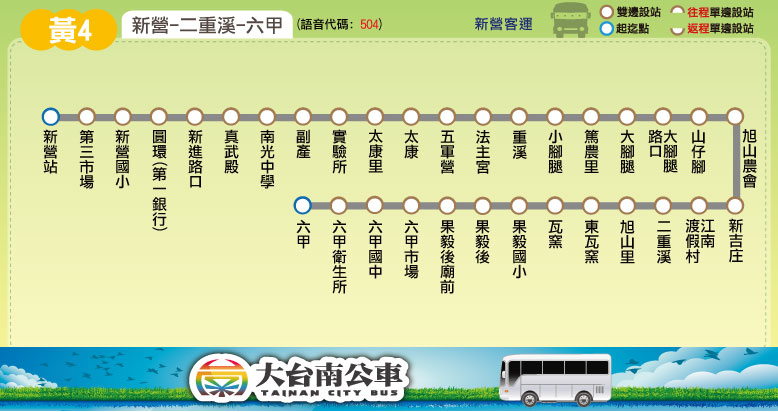
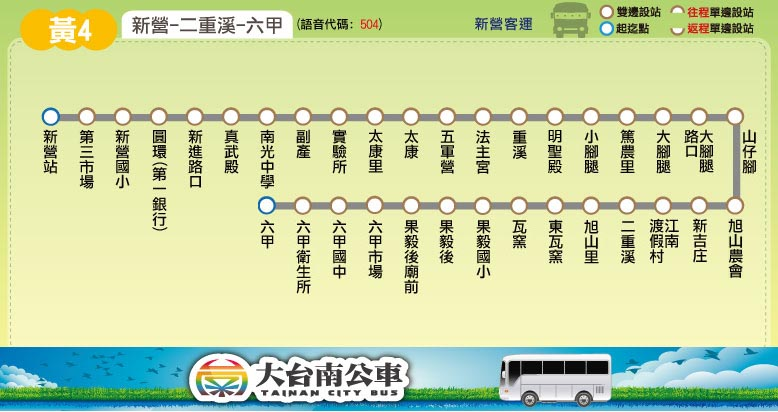
Add one stop: y4

diff --git a/route/fare_and_time/yellow_4.js b/route/fare_and_time/yellow_4.js
@@ -1,15 +1,15 @@
 yellow_4_interval_name = ["新營","副產","柳營","五軍營","小腳腿","大腳腿","山仔腳","江南<br />渡假村","二重溪","瓦窯","果毅後","六甲"];
-yellow_4_interval_stop = [
+yellow_4_interval_stop = [ // checked 20150512
 ["新營站","第三市場","新營國小","圓環(第一銀行)","新進路口","真武殿","南光中學"], // 新營
-["副產","實驗所"], // 副產
-["太康里","太康"], // 太康
-["五軍營","法主宮","重溪"], // 五軍營
+["副產","實驗所","太康里"], // 副產
+["太康"], // 太康
+["五軍營","法主宮","重溪","明聖殿"], // 五軍營
 ["小腳腿","篤農里"], // 小腳腿
 ["大腳腿","大腳腿路口"], // 大腳腿
 ["山仔腳","旭山農會","新吉庄"], // 山仔腳
 ["江南渡假村"], // 江南渡假村
-["二重溪"], // 二重溪
-["旭山里","東瓦窯","瓦窯"], // 瓦窯
+["二重溪","旭山里"], // 二重溪
+["東瓦窯","瓦窯"], // 瓦窯
 ["果毅國小","果毅後","果毅後廟前"], // 果毅後
 ["六甲市場","六甲國中","六甲衛生所","六甲"] // 六甲
 ];
@@ -31,8 +31,8 @@ yellow_4_fare = [
 // format = [time at the start stop] or
 // [time, other] or
 // [time, start_stop, end_stop, other]
-yellow_4_main_stop_name = ["新營","法主官<br />(五軍營)","小腳腿","山仔腳","二重溪","果毅後<br />廟前","六甲"];
-yellow_4_main_stop_time_consume = [0, 13, 20, 28, 33, 40, 50];
-yellow_4_important_stop = [0, 2, 6]; // 新營, 小腳腿", 六甲
+yellow_4_main_stop_name = ["新營","太康里","小腳腿","山仔腳","二重溪","果毅後<br />廟前","六甲"];
+yellow_4_main_stop_time_consume = [0, 10, 20, 28, 33, 40, 50];
+yellow_4_important_stop = [0, 2, 4, 6]; // 新營, 小腳腿, 二重溪, 六甲
 yellow_4_time_go = [["06:40"],["10:10"],["14:00"],["16:15"],["18:20"]];
 yellow_4_time_return = [["05:50"],["07:40"],["11:05"],["14:55"],["17:15"]];

diff --git a/route/fare_and_time/brown_3_1.js b/route/fare_and_time/brown_3_1.js
@@ -1,11 +1,11 @@
 brown_3_1_interval_name = ["新營","台電公司","紙廠","太宮<br />派出所","五興里","鐵線里"];
-brown_3_1_interval_stop = [
+brown_3_1_interval_stop = [ // checked 20150512
 ["新營站","圓環","三民路口","民治市政中心","新營高工","中正世家","電力公司","新營體育場","新北里","營新醫院"], // 新營
 ["台電公司"], // 台電公司
 ["紙廠"], // 紙廠
 ["太子宮郵局","太宮派出所","太南里"], // 太宮派出所
-["五興里"], // 五興里
-["舊廍里","鐵線里"] // 鐵線里
+["五興里","舊廍里"], // 五興里
+["鐵線里"] // 鐵線里
 ];
 brown_3_1_stop_time_consume = [0,2,4,6,8,9,9,10,11,11,14,16,18,18,20,23,25];
 brown_3_1_fare = [
